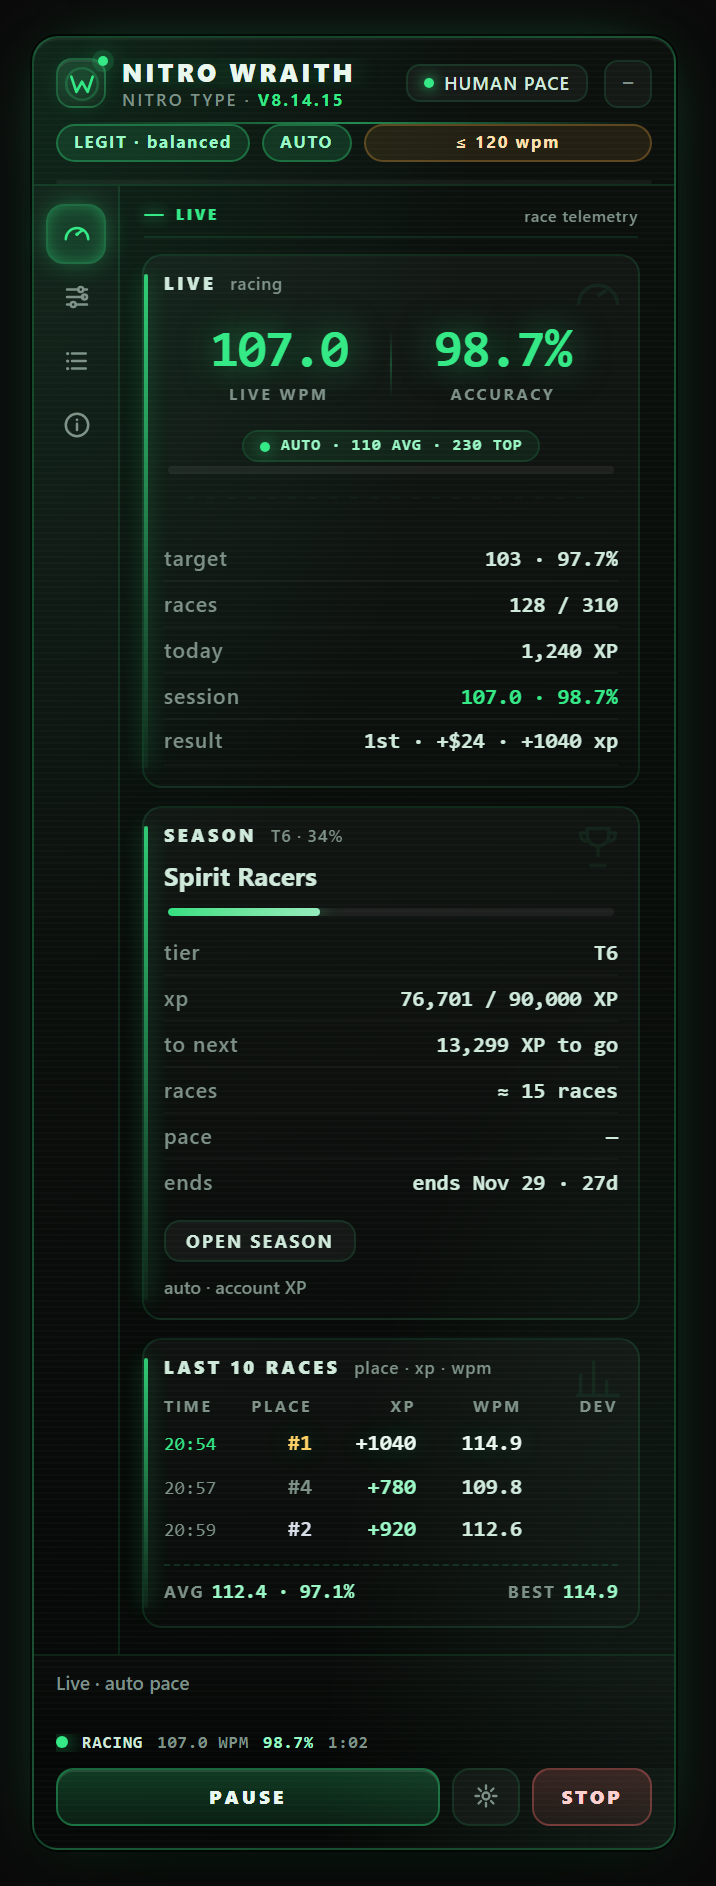
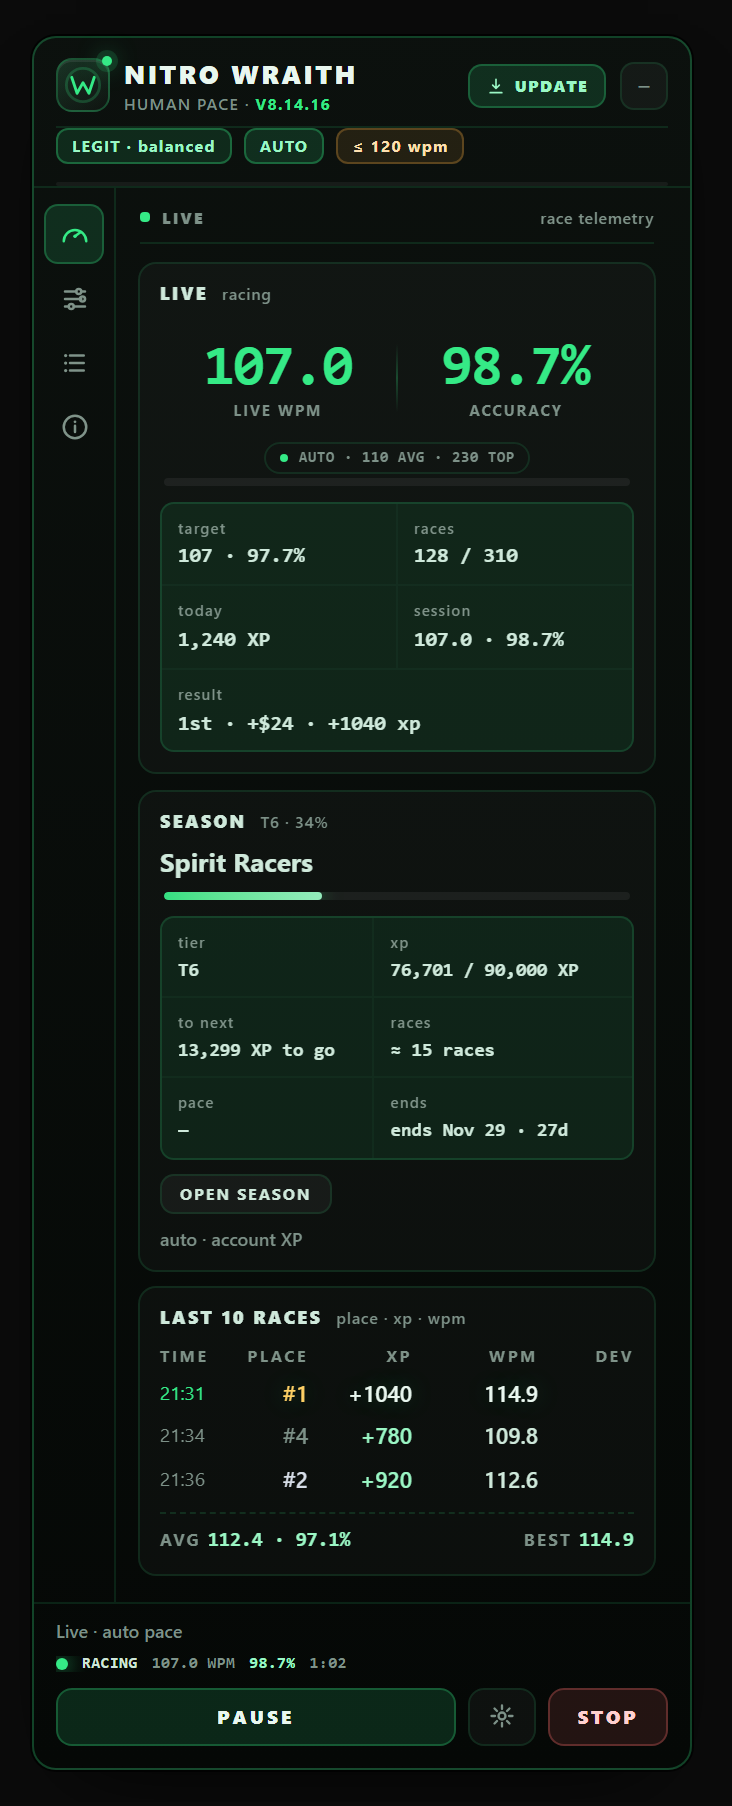
feat: simplify the panel and add a direct GitHub update link
Flatten the cards, group Live and Season metrics into a readable grid, and keep a permanent Update link in the header that downloads the latest GitHub release. Add an Updates card in Info and track the new link in the panel tests.

diff --git a/nitro-wraith.user.js b/nitro-wraith.user.js
@@ -1,7 +1,7 @@
 // ==UserScript==
 // @name         NITRO WRAITH
 // @namespace    nitro.wraith
-// @version      8.14.15
+// @version      8.14.16
 // @updateURL    https://gist.githubusercontent.com/ezurinho/88f8b25546f8bb0ea588291bab8ffa58/raw/nitro-wraith.meta.js
 // @downloadURL  https://gist.githubusercontent.com/ezurinho/88f8b25546f8bb0ea588291bab8ffa58/raw/nitro-wraith.user.js
 // @description  Human-paced Nitro Type racer for one account: auto-calibrated to the account's own WPM average and top speed under a hard 120 WPM ceiling, automatic race loop with breaks and session limits, Mystery Box, stickers, CAPTCHA/session recovery, a live four-view panel and a safety guard. Always AUTO; no fast mode.
@@ -725,7 +725,7 @@ All of this only aims at believable statistics. It is your call and your risk.
 
   };
 
-  const VERSION = '8.14.15';
+  const VERSION = '8.14.16';
 
   // Aviso de version: el meta del Gist es publico aunque el Gist sea secreto,
   // asi que se puede leer sin token. Se guarda el ultimo resultado y se
@@ -733,6 +733,8 @@ All of this only aims at believable statistics. It is your call and your risk.
   // Un fallo de red no borra un aviso anterior ni bloquea la partida.
   const UPDATE_META_URL = 'https://gist.githubusercontent.com/ezurinho/88f8b25546f8bb0ea588291bab8ffa58/raw/nitro-wraith.meta.js';
   const UPDATE_DOWNLOAD_URL = 'https://gist.githubusercontent.com/ezurinho/88f8b25546f8bb0ea588291bab8ffa58/raw/nitro-wraith.user.js';
+  const UPDATE_PAGE_URL = 'https://github.com/ezurinho/nitro-wraith/releases/latest';
+  const UPDATE_GITHUB_URL = 'https://github.com/ezurinho/nitro-wraith/releases/latest/download/nitro-wraith.user.js';
   const UPDATE_KEY = 'nta:update';
   const UPDATE_RECHECK_MS = 3600000;
   const UPDATE_RETRY_MS = 30 * 60000;
@@ -834,8 +836,8 @@ All of this only aims at believable statistics. It is your call and your risk.
   }
 
   function paintUpdateHealth(force = false) {
-    const node = panel.refs && panel.refs.up;
-    if (!node) return;
+    const nodes = panel.refs ? [panel.refs.up, panel.refs.upInfo].filter(Boolean) : [];
+    if (!nodes.length) return;
     const now = Date.now();
     // La edad del chequeo cambia como mucho cada minuto: no hay razon para
     // leer `nta:update` ni tocar el DOM dos veces por segundo. Una comprobacion
@@ -843,9 +845,11 @@ All of this only aims at believable statistics. It is your call and your risk.
     if (!force && panel.updateHealthAt && now - panel.updateHealthAt < 30000) return;
     panel.updateHealthAt = now;
     const health = updateHealth();
-    setText(node, health.text);
-    setGood(node, health.good);
-    if (node.title !== health.title) node.title = health.title;
+    for (const node of nodes) {
+      setText(node, health.text);
+      setGood(node, health.good);
+      if (node.title !== health.title) node.title = health.title;
+    }
   }
 
   function paintUpdateBadge(node) {
@@ -8824,7 +8828,7 @@ All of this only aims at believable statistics. It is your call and your risk.
           content: '';
           position: absolute;
           left: 11px; right: 11px; bottom: 0; height: 1px;
-          background: linear-gradient(90deg, transparent, color-mix(in srgb, var(--acc) 55%, transparent), transparent);
+          background: var(--line);
           pointer-events: none;
         }
         .head:active { cursor: grabbing; }
@@ -8846,7 +8850,11 @@ All of this only aims at believable statistics. It is your call and your risk.
         .sub { display: block; overflow: hidden; text-overflow: ellipsis; white-space: nowrap; margin-top: 2px; font: 600 8.5px/1 ui-sans-serif, -apple-system, 'Segoe UI', system-ui, sans-serif; letter-spacing: .13em; text-transform: uppercase; color: var(--dim-2); }
         .sub b { color: var(--acc); font-weight: 700; }
 
-        .who { flex: none; display: inline-flex; align-items: center; gap: 5px; padding: 4px 8px; border-radius: 7px; font: 600 9px/1 ui-sans-serif, -apple-system, 'Segoe UI', system-ui, sans-serif; letter-spacing: .06em; color: var(--ink-2); background: rgba(255, 255, 255, .045); border: 1px solid var(--line); }
+        .who { display: none; }
+        .ghlink { flex: none; display: inline-flex; align-items: center; gap: 4px; padding: 5px 8px; border-radius: 7px; text-decoration: none; font: 800 8px/1 ui-sans-serif, -apple-system, 'Segoe UI', system-ui, sans-serif; letter-spacing: .08em; text-transform: uppercase; color: var(--acc-2); background: var(--acc-dim); border: 1px solid var(--line-strong); transition: color .15s ease, background .15s ease, border-color .15s ease; }
+        .ghlink:hover { color: var(--ink); background: color-mix(in srgb, var(--acc) 20%, transparent); border-color: var(--acc); }
+        .ghlink:focus-visible { outline: 2px solid var(--acc); outline-offset: 2px; }
+        .ghlink svg { width: 10px; height: 10px; display: block; }
         .upd { all: unset; flex: none; cursor: pointer; padding: 4px 7px; border-radius: 7px;
                font: 800 8px/1 ui-sans-serif, -apple-system, 'Segoe UI', system-ui, sans-serif;
                letter-spacing: .08em; text-transform: uppercase; color: #20160a;
@@ -9164,7 +9172,7 @@ All of this only aims at believable statistics. It is your call and your risk.
         .spark-line { fill: none; stroke: var(--acc); stroke-width: 1.8; stroke-linejoin: round; stroke-linecap: round; transition: opacity .2s ease; }
         .spark-area { fill: color-mix(in srgb, var(--acc) 16%, transparent); stroke: none; }
         .spark-zero { stroke: color-mix(in srgb, var(--acc) 22%, transparent); stroke-width: .6; stroke-dasharray: 2 3; }
-        .spark[data-empty="1"] { opacity: .35; }
+        .spark[data-empty="1"] { display: none; }
 
         .actions { display: flex; gap: 6px; padding: 0 11px 11px; }
         .toggle { all: unset; flex: 1 1 auto; padding: 9px 0; text-align: center; border-radius: 9px; cursor: pointer; font: 800 9.5px/1 ui-sans-serif, -apple-system, 'Segoe UI', system-ui, sans-serif; letter-spacing: .16em; text-transform: uppercase; color: var(--ink); background: linear-gradient(180deg, color-mix(in srgb, var(--acc) 22%, transparent), color-mix(in srgb, var(--acc) 10%, transparent)); border: 1px solid color-mix(in srgb, var(--acc) 34%, transparent); box-shadow: inset 0 1px 0 rgba(255, 255, 255, .1); transition: filter .15s ease, transform .1s ease, box-shadow .25s ease; }
@@ -9184,6 +9192,82 @@ All of this only aims at believable statistics. It is your call and your risk.
         .gear:active { transform: scale(.94); }
         .gear[data-open="1"] { color: var(--acc); background: var(--acc-dim); border-color: var(--line-strong); box-shadow: 0 0 18px -8px var(--acc); }
         .gear svg { width: 14px; height: 14px; display: block; }
+
+        /* ---------- acabado simple ----------------------------------------- */
+        /* Una segunda pasada, plana y silenciosa: menos adornos, mas aire y una
+           sola jerarquia. Las vistas siguen siendo las mismas; solo cambia la
+           piel que las contiene. */
+        .panel {
+          width: 330px;
+          background: linear-gradient(180deg, var(--bg-hi), var(--bg-lo));
+          border-radius: 12px;
+          box-shadow: 0 18px 42px -22px rgba(0, 0, 0, .95), 0 0 0 1px rgba(0, 0, 0, .65);
+          font-family: ui-sans-serif, -apple-system, 'Segoe UI', system-ui, sans-serif;
+        }
+        .head { gap: 7px; padding: 10px 11px 8px; }
+        .mark { width: 27px; height: 27px; border-radius: 8px; box-shadow: inset 0 1px 0 rgba(255, 255, 255, .08); }
+        .mark svg { width: 19px; height: 19px; filter: none; }
+        .title { font-size: 13px; letter-spacing: .1em; text-shadow: none; }
+        .sub { margin-top: 3px; font-size: 8px; letter-spacing: .08em; color: var(--dim); }
+        .chips-row { flex-wrap: wrap; row-gap: 5px; padding: 0 11px 9px; }
+        .pace, .mode, .cap { padding: 4px 7px; border-radius: 6px; font-size: 8px; letter-spacing: .08em; }
+        .cap { flex: 0 1 auto; }
+        .upd { margin-left: auto; }
+
+        .main { border-top-color: var(--line); }
+        .rail { padding: 8px 5px; background: transparent; }
+        .rail-glide { left: 5px; top: 8px; width: 30px; height: 30px; border-radius: 7px; background: var(--acc-dim); box-shadow: none; }
+        .rail-btn { width: 30px; height: 30px; border-radius: 7px; }
+        .views { padding: 10px 11px 11px; }
+        .view-head { align-items: center; margin-bottom: 9px; padding-bottom: 7px; border-bottom-color: var(--line); }
+        .view-head span { gap: 6px; font-size: 8px; letter-spacing: .13em; color: var(--dim); }
+        .view-head span::before { width: 5px; height: 5px; border-radius: 2px; box-shadow: none; }
+        .view-head b { font-size: 8px; color: var(--dim-2); }
+
+        .card { margin-bottom: 8px; padding: 10px; border-radius: 9px; background: var(--card); border-color: var(--line); transition: none; }
+        .card:hover { border-color: var(--line); box-shadow: none; }
+        .card::before, .card > .ghost { display: none; }
+        .card-h { align-items: center; margin-bottom: 7px; }
+        .card-t { font-size: 9px; letter-spacing: .13em; color: var(--ink-2); }
+        .card-s { font-size: 8px; color: var(--dim); }
+        .hero { padding: 10px 0 9px; }
+        .stat b { font-size: 28px; text-shadow: none; }
+        .stat b[data-good="1"] { text-shadow: none; }
+        .stat b[data-good="0"] { text-shadow: none; }
+        .stat span { margin-top: 5px; font-size: 7.5px; letter-spacing: .13em; color: var(--dim); }
+        .auto-pace { margin-top: 3px; padding: 3px 7px; border-color: var(--line); background: transparent; color: var(--dim); font-size: 7.5px; letter-spacing: .05em; }
+        .auto-pace::before { width: 4px; height: 4px; box-shadow: none; }
+
+        /* Las metricas de Live y Season se leen como una cuadricula, no como
+           una lista larga: dos columnas, etiqueta arriba y valor debajo. */
+        .v-stats .live-card .rows,
+        .v-stats .season-card .rows { display: grid; grid-template-columns: 1fr 1fr; gap: 1px; margin-top: 8px; border: 1px solid var(--line); border-radius: 7px; overflow: hidden; background: var(--line); }
+        .v-stats .season-card .rows { grid-template-columns: .9fr 1.1fr; }
+        .v-stats .live-card .rows .row,
+        .v-stats .season-card .rows .row { display: flex; flex-direction: column; align-items: flex-start; justify-content: flex-start; gap: 2px; min-width: 0; padding: 7px 8px; border: 0; background: rgba(0, 0, 0, .16); }
+        .v-stats .live-card .rows .row > span,
+        .v-stats .season-card .rows .row > span { font-size: 7.5px; letter-spacing: .08em; color: var(--dim-2); }
+        .v-stats .live-card .rows .row b,
+        .v-stats .season-card .rows .row b { width: 100%; text-align: left; white-space: normal; overflow-wrap: anywhere; font-size: 10.5px; line-height: 1.3; color: var(--ink-2); }
+        .v-stats .live-card .rows .result-row { grid-column: 1 / -1; }
+        .v-stats .season-card .rows .row b { font-size: 9.5px; white-space: nowrap; overflow: hidden; text-overflow: ellipsis; }
+        .v-stats .live-card .rows .row.secondary { display: none; }
+        .season-card .season-name { margin: 1px 0 7px; font-size: 13px; }
+        .season-card .season-actions { margin-top: 7px; }
+        .season-card .season-actions .act { font-size: 8px; padding: 5px 9px; }
+        .update-card .season-actions .act { flex: 0 1 auto; }
+
+        .foot { padding: 7px 11px 8px; background: transparent; }
+        .status { min-height: 0; margin-bottom: 6px; font-size: 9px; color: var(--dim); }
+        .foot-bar { font-size: 8px; letter-spacing: .03em; }
+        .actions { padding: 0 11px 11px; }
+        .toggle { padding: 9px 0; border-radius: 8px; background: var(--acc-dim); border-color: var(--line-strong); box-shadow: none; }
+        .toggle:hover { box-shadow: none; }
+        .stop { border-radius: 8px; background: color-mix(in srgb, var(--bad) 12%, transparent); border-color: color-mix(in srgb, var(--bad) 28%, transparent); }
+        .stop:hover { box-shadow: none; }
+        .gear { border-radius: 8px; }
+        .act { border-radius: 7px; text-decoration: none; }
+        .theme { border-radius: 7px; }
 
         /* ---------- selector de tema ---------------------------------------- */
         .themes { display: grid; grid-template-columns: repeat(3, 1fr); gap: 5px; margin-top: 2px; }
@@ -9212,8 +9296,7 @@ All of this only aims at believable statistics. It is your call and your risk.
         .panel[data-collapsed="true"] { width: auto; min-width: 210px; }
         .panel[data-collapsed="true"] .main,
         .panel[data-collapsed="true"] .foot,
-        .panel[data-collapsed="true"] .chips-row,
-        .panel[data-collapsed="true"] .who { display: none; }
+        .panel[data-collapsed="true"] .chips-row { display: none; }
         .panel[data-collapsed="true"] .head { padding-bottom: 9px; }
         .panel[data-collapsed="true"] .actions { padding-top: 0; }
 
@@ -9240,8 +9323,9 @@ All of this only aims at believable statistics. It is your call and your risk.
           .head::after { left: 8px; right: 8px; }
           .head .dot,
           .head .who,
-          .head .sub,
-          .head .upd { display: none; }
+          .head .sub { display: none; }
+          .head .ghlink { display: grid; place-items: center; width: 22px; height: 22px; padding: 0; }
+          .head .ghlink span { display: none; }
           .title { font-size: 11px; letter-spacing: .08em; }
           .chips-row { flex: none; flex-wrap: wrap; row-gap: 5px; padding: 0 8px 7px; }
           .chips-row > * { flex: 0 1 auto; white-space: nowrap; }
@@ -9288,16 +9372,18 @@ All of this only aims at believable statistics. It is your call and your risk.
           </span>
           <span class="brand">
             <b class="title" data-field="title">NITRO WRAITH</b>
-            <span class="sub">nitro type · <b data-field="ver">v7.0.0</b></span>
+            <span class="sub">human pace · <b data-field="ver">v7.0.0</b></span>
           </span>
-          <span class="who" title="Account this pace is calibrated for"><i></i>HUMAN PACE</span>
-          <button class="upd" type="button" data-field="update" hidden>update</button>
+          <a class="ghlink" href="${UPDATE_GITHUB_URL}" target="_blank" rel="noopener noreferrer" title="Download the latest NITRO WRAITH userscript from GitHub" aria-label="Download the latest NITRO WRAITH userscript from GitHub">
+            <svg viewBox="0 0 24 24" fill="none" stroke="currentColor" stroke-width="2" stroke-linecap="round" stroke-linejoin="round"><path d="M12 4v11M8 11l4 4 4-4M5 20h14"/></svg><span>Update</span>
+          </a>
           <button class="iconbtn collapse" type="button" data-act="expand" aria-label="Collapse panel" aria-expanded="true" title="Collapse / expand the panel">−</button>
         </div>
         <div class="chips-row">
           <button class="pace" type="button">LEGIT · balanced</button>
           <span class="mode" role="status" aria-live="polite" title="Always AUTO: the bot starts by itself. Stop stops it; it comes back on the next garage visit.">AUTO</span>
           <span class="cap" data-field="cap" title="Hard ceiling: no race is ever allowed above this WPM">≤ 120 wpm</span>
+          <button class="upd" type="button" data-field="update" hidden>update</button>
         </div>
         <div class="race-line" aria-hidden="true"><i></i></div>
         <div class="main">
@@ -9620,8 +9706,17 @@ All of this only aims at believable statistics. It is your call and your risk.
             <template data-view="info">
             <section class="view v-info" id="nt-view-info" role="tabpanel" aria-label="Info">
               <div class="view-head"><span>Info</span><b>keys · guardrails</b></div>
+              <div class="card update-card">
+                <div class="card-h"><span class="card-t">Updates</span><span class="card-s">GitHub releases</span></div>
+                <div class="rows">
+                  <div class="row" title="Last public update check. A newer build is downloaded from GitHub, never installed without your click."><span>check</span><b data-field="upInfo">—</b></div>
+                </div>
+                <div class="season-actions">
+                  <a class="act" href="${UPDATE_PAGE_URL}" target="_blank" rel="noopener noreferrer" title="Open the latest release on GitHub">open GitHub</a>
+                </div>
+                <div class="cfg-note">The Gist meta is checked once an hour; the installed copy changes only when you download a release.</div>
+              </div>
               <div class="card">
-                <span class="ghost"><svg viewBox="0 0 24 24" fill="none" stroke="currentColor" stroke-width="1.6"><circle cx="12" cy="12" r="9"/><path d="M12 11v5"/></svg></span>
                 <div class="card-h"><span class="card-t">About</span><span class="card-s" data-field="aboutVer">v7.0.0</span></div>
                 <p class="about">Human-paced racer for one account: calibrated typing inside the account's own envelope, human breaks, a queue that recovers the garage, reloads, CAPTCHAs and re-logins, and a guard that stops everything on an impossible reading. <b>There is no fast mode.</b></p>
               </div>
@@ -9841,6 +9936,7 @@ All of this only aims at believable statistics. It is your call and your risk.
       cfgText: pick('[data-field="cfgText"]'),
       cfgNote: pick('[data-field="cfgNote"]'),
       up: pick('[data-field="up"]'),
+      upInfo: pick('[data-field="upInfo"]'),
       nitroStrategy: pick('[data-field="nitroStrategy"]'),
       nitroPreview: pick('[data-field="nitroPreview"]'),
       foot: pick('[data-field="foot"]'),

diff --git a/tests/live/run.js b/tests/live/run.js
@@ -5005,6 +5005,28 @@ async function runChecks(cdp, devtoolsPort, appUrl) {
       && /download/i.test(panelUpdate.shown.title) && /download/i.test(panelUpdate.shown.aria)
       && panelUpdate.hidden === true, panelUpdate);
 
+  const githubUpdate = await cdp.evaluate(`(() => {
+    const w = document.querySelector('iframe').contentWindow;
+    const s = w.document.getElementById('nt-autotyper-panel').shadowRoot;
+    const link = s.querySelector('.ghlink');
+    if (!link) return { has: false };
+    const rect = link.getBoundingClientRect();
+    return {
+      has: true,
+      text: (link.textContent || '').trim(),
+      href: link.href,
+      target: link.target,
+      rel: link.rel,
+      width: rect.width,
+      display: getComputedStyle(link).display,
+    };
+  })()`);
+  check('the panel always exposes the GitHub update link',
+    githubUpdate.has && /^update$/i.test(githubUpdate.text)
+      && /^https:\/\/github\.com\/ezurinho\/nitro-wraith\/releases\/latest\/download\/nitro-wraith\.user\.js$/.test(githubUpdate.href)
+      && githubUpdate.target === '_blank' && /noopener/.test(githubUpdate.rel)
+      && githubUpdate.width > 0 && githubUpdate.display !== 'none', githubUpdate);
+
   // Las dos puertas que no se saltan con Resume: tope diario y horas activas.
   // Se usa el override del banco para no depender de las carreras de hoy.
   const gateResume = await cdp.evaluate(`(() => {

diff --git a/nitro-wraith.meta.js b/nitro-wraith.meta.js
@@ -1,7 +1,7 @@
 // ==UserScript==
 // @name         NITRO WRAITH
 // @namespace    nitro.wraith
-// @version      8.14.15
+// @version      8.14.16
 // @updateURL    https://gist.githubusercontent.com/ezurinho/88f8b25546f8bb0ea588291bab8ffa58/raw/nitro-wraith.meta.js
 // @downloadURL  https://gist.githubusercontent.com/ezurinho/88f8b25546f8bb0ea588291bab8ffa58/raw/nitro-wraith.user.js
 // @description  Human-paced Nitro Type racer for one account: auto-calibrated to the account's own WPM average and top speed under a hard 120 WPM ceiling, automatic race loop with breaks and session limits, Mystery Box, stickers, CAPTCHA/session recovery, a live four-view panel and a safety guard. Always AUTO; no fast mode.

diff --git a/README.md b/README.md
@@ -15,7 +15,7 @@
   <a href="https://gist.githubusercontent.com/ezurinho/88f8b25546f8bb0ea588291bab8ffa58/raw/nitro-wraith.user.js">
     <img src="https://img.shields.io/badge/INSTALL_USERSCRIPT-70FFAB?style=for-the-badge&logo=tampermonkey&logoColor=07100C&labelColor=0B1711" alt="Install NITRO WRAITH">
   </a>
-  <a href="https://github.com/ezurinho/nitro-wraith/releases/tag/v8.14.15">
+  <a href="https://github.com/ezurinho/nitro-wraith/releases/tag/v8.14.16">
     <img src="https://img.shields.io/github/v/release/ezurinho/nitro-wraith?style=for-the-badge&label=release&labelColor=0B1711&color=62E2D0" alt="Latest release">
   </a>
   <a href="CHANGELOG.md">
@@ -24,7 +24,7 @@
 </p>
 
 <p align="center">
-  <a href="CHANGELOG.md"><img src="https://img.shields.io/badge/version-8.14.15-5CF2A0?style=flat-square&labelColor=0B1711" alt="version"></a>
+  <a href="CHANGELOG.md"><img src="https://img.shields.io/badge/version-8.14.16-5CF2A0?style=flat-square&labelColor=0B1711" alt="version"></a>
   <a href="https://github.com/ezurinho/nitro-wraith/actions/workflows/check.yml"><img src="https://github.com/ezurinho/nitro-wraith/actions/workflows/check.yml/badge.svg?branch=main" alt="check"></a>
   <a href="LICENSE"><img src="https://img.shields.io/badge/license-MIT-62E2D0?style=flat-square&labelColor=0B1711" alt="license"></a>
   <a href="https://www.tampermonkey.net/"><img src="https://img.shields.io/badge/Tampermonkey-userscript-FFC66D?style=flat-square&labelColor=0B1711" alt="Tampermonkey"></a>
@@ -86,6 +86,11 @@ calibration off.
 </p>
 
 <p align="center"><sub><strong>Carbon</strong>, <strong>Aurora</strong>, <strong>Sunset</strong>, <strong>Ice</strong>, <strong>Violet</strong> and <strong>RGB</strong>. All six keep the same layout; switch with <kbd>Alt</kbd> + <kbd>T</kbd> or the theme button.</sub></p>
+
+The panel's **Update** link downloads the latest userscript directly from the
+GitHub release. Auto-update still uses the small Gist metadata file, so an
+installed userscript can check for a new version without downloading the whole
+script.
 
 ## What it does
 

diff --git a/CHANGELOG.md b/CHANGELOG.md
@@ -1,5 +1,9 @@
 # Changelog
 
+## 8.14.16 — 2026-11-14
+
+- feat: add an always-visible GitHub Update link and a simpler, flatter panel layout
+
 ## 8.14.15 — 2026-11-14
 
 - feat: give the panel and garage the Nitro Wraith mark
